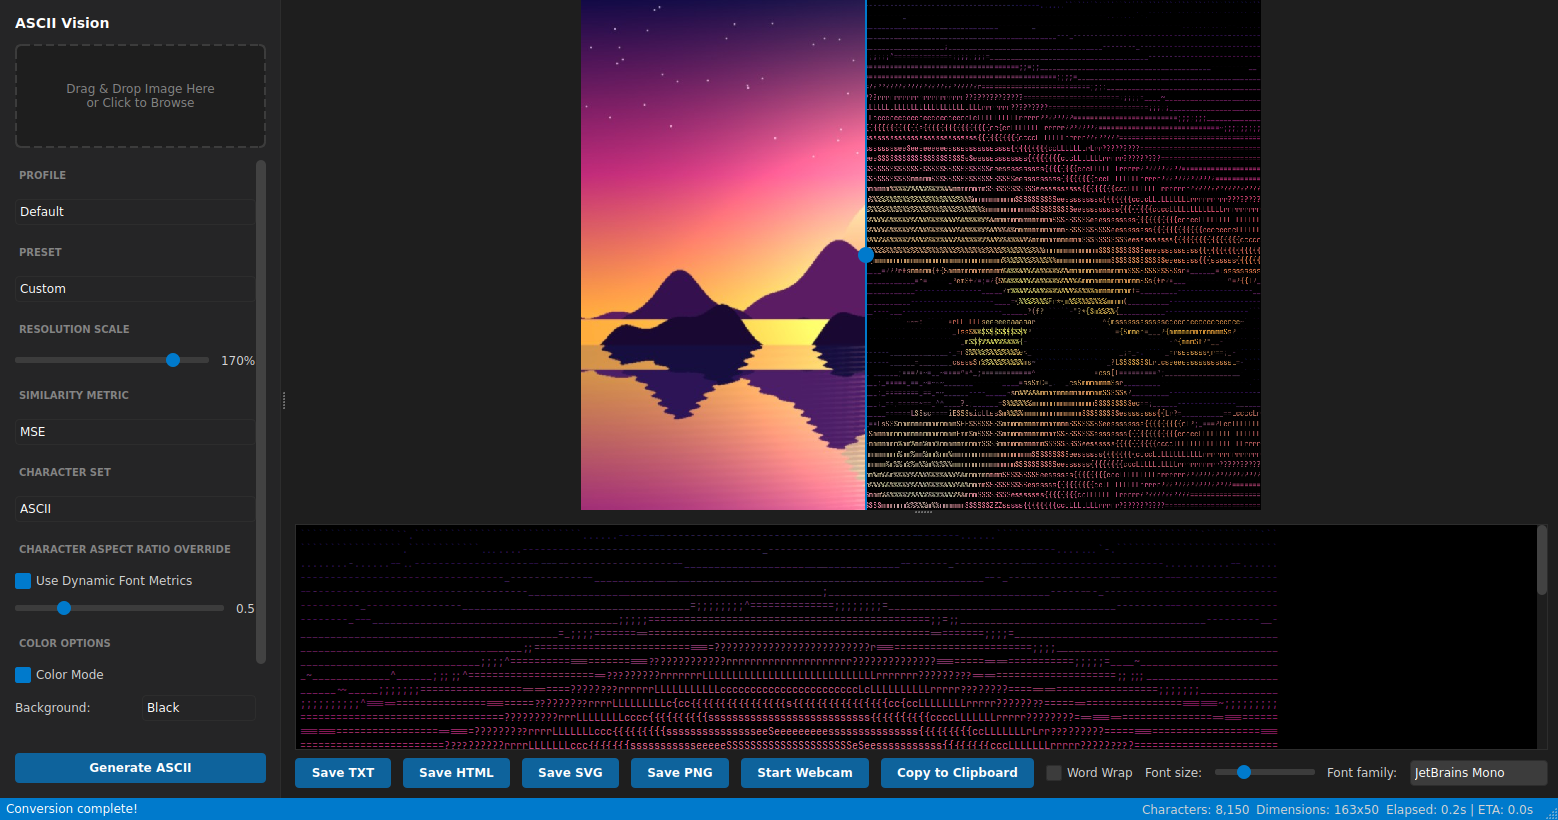
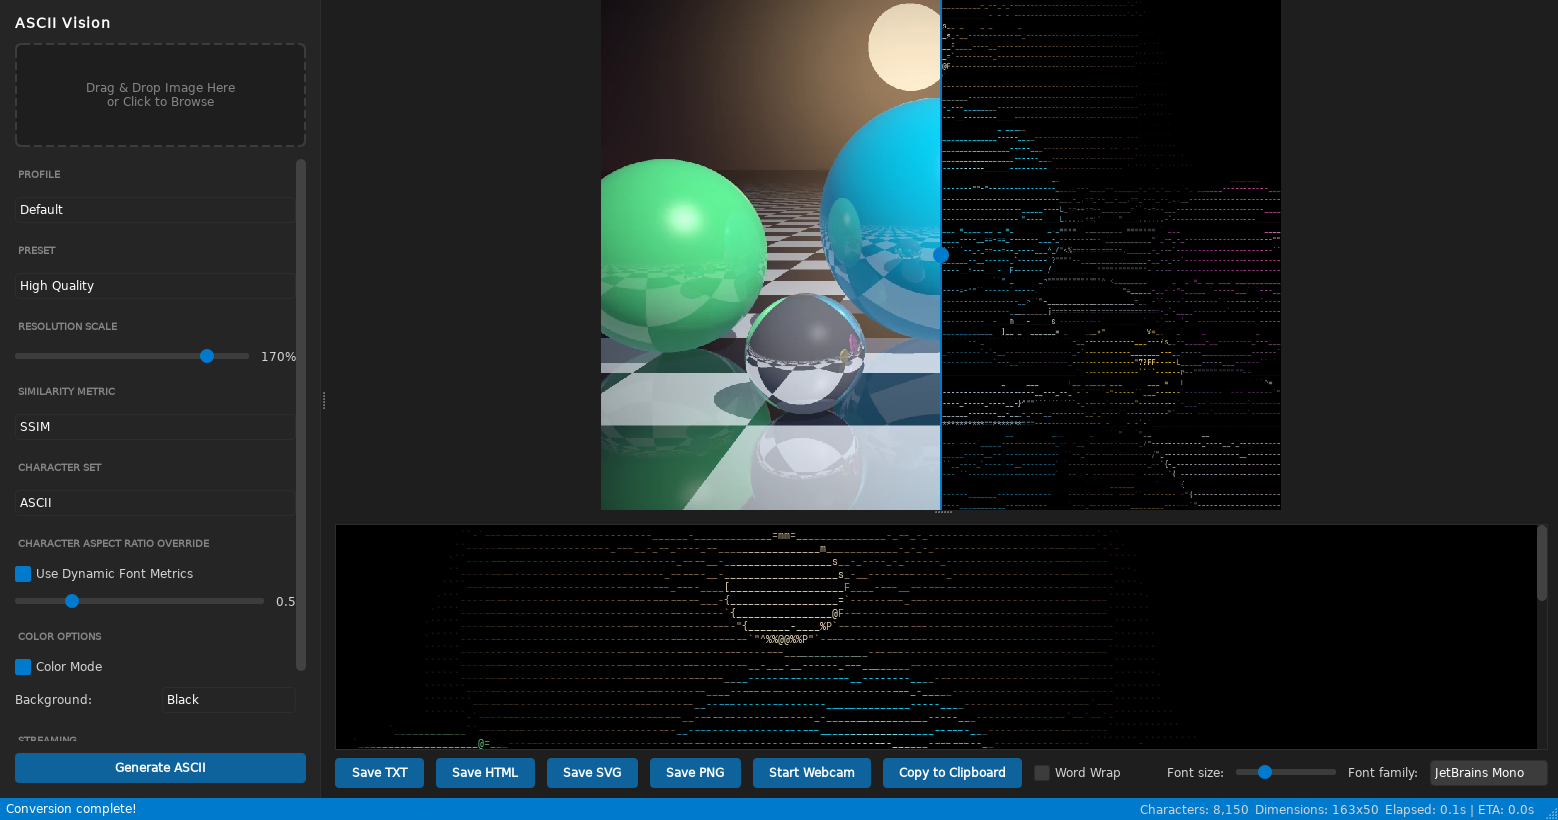
feat(site): refresh the app screenshot and social card with the new scene
app-screenshot.png is now captured from the real GUI converting the comparer
scene (promo/capture_gui.py). og.jpg keeps its layout and gets the new capture
in its window area, so both match the before/after demo.

diff --git a/promo/capture_gui.py b/promo/capture_gui.py
@@ -1,0 +1,71 @@
+"""Capture the real ASCII Vision window for the landing page.
+
+Loads the comparer scene (site/assets/compare-original.webp), converts it with the High Quality preset in colour and
+saves a grab of the window to site/assets/app-screenshot.png. Run promo/gen_compare.py first if the scene changed.
+
+    pip install -e .                 # from the repository root
+    python promo/capture_gui.py
+"""
+import os
+import sys
+import tempfile
+import time
+
+os.environ.setdefault("QT_QPA_PLATFORM", "offscreen")      # no window pops up while capturing
+
+from PIL import Image
+from PySide6.QtWidgets import QApplication, QMessageBox
+
+ROOT = os.path.dirname(os.path.dirname(os.path.abspath(__file__)))
+ASSETS = os.path.join(ROOT, "site", "assets")
+SIZE = (1558, 820)
+SCALE = 170
+SPLIT = 0.5                     # divider position (half original, half ASCII)
+
+
+def wait_for_conversion(window, timeout=60):
+    # Pump events by hand: a plain sleep would starve the worker thread's signals.
+    deadline = time.time() + timeout
+    while time.time() < deadline:
+        QApplication.processEvents()
+        if window.worker is None and window.thread is None:
+            return True
+        time.sleep(0.01)
+    return False
+
+
+def main():
+    app = QApplication(sys.argv)
+    # A modal dialog would block forever without a display, so report it and carry on.
+    for kind in ("critical", "warning", "information"):
+        setattr(QMessageBox, kind, staticmethod(lambda *a, _k=kind, **k: print(f"[{_k}]", a[1:3], file=sys.stderr)))
+    from ascii_vision_gui.main_window import MainWindow
+
+    window = MainWindow()
+    window.check_workload = lambda *a, **k: "continue"       # never show the "heavy workload" dialog
+    window.resize(*SIZE)
+    window.show()
+    out = os.path.join(ASSETS, "app-screenshot.png")
+    with tempfile.TemporaryDirectory() as tmp:                # the app re-reads the file on every conversion
+        scene = os.path.join(tmp, "scene.png")
+        Image.open(os.path.join(ASSETS, "compare-original.webp")).convert("RGB").save(scene)
+        window.load_image(scene)
+        window.preset_combo.setCurrentText("High Quality")
+        window.color_mode_cb.setChecked(True)
+        window.scale_slider.setValue(SCALE)
+        window.generate_btn.click()
+        if not wait_for_conversion(window):
+            sys.exit("conversion did not finish")
+        window.comparison_widget.split_ratio = SPLIT
+        for _ in range(20):
+            app.processEvents()
+            time.sleep(0.02)
+        ok = window.grab().save(out, "PNG")
+        window.close()
+    if not ok:
+        sys.exit("could not save the screenshot")
+    print(out, Image.open(out).size, os.path.getsize(out) // 1024, "KB")
+
+
+if __name__ == "__main__":
+    main()

diff --git a/site/README.md b/site/README.md
@@ -31,5 +31,6 @@ the Windows installer. It follows the **Symmetrical Code design system** (`DESIG
   Run workflow). Enable Pages once under *Settings -> Pages -> Source: GitHub Actions*. The site is served from
   <https://ascii.symmetricalcode.com/> (custom domain set in Pages settings; DNS is a `CNAME ascii -> p5patricio.github.io`
   record in the symmetricalcode.com zone). If you serve it from another URL, update `canonical` and `og:image` in `index.html`.
-* **Assets**: `app-screenshot.png` is a real capture of the GUI, `promo.mp4`/`promo-poster.jpg` come from the promo
+* **Assets**: `app-screenshot.png` is a real capture of the GUI (`python promo/capture_gui.py`, which converts the comparer
+  scene in the app itself), `og.jpg` is the social card with that capture composited into its window area, `promo.mp4`/`promo-poster.jpg` come from the promo
   video (see `../promo`), `favicon.svg` is the Symmetrical Code mark. Syne, Geist and Geist Mono are SIL OFL.
